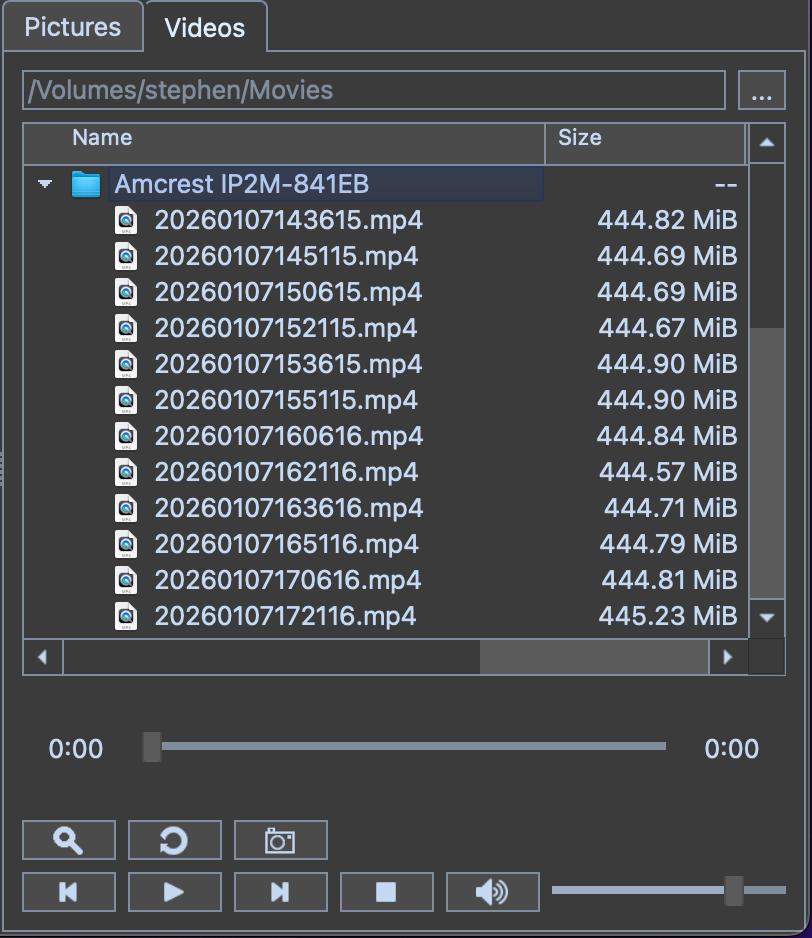
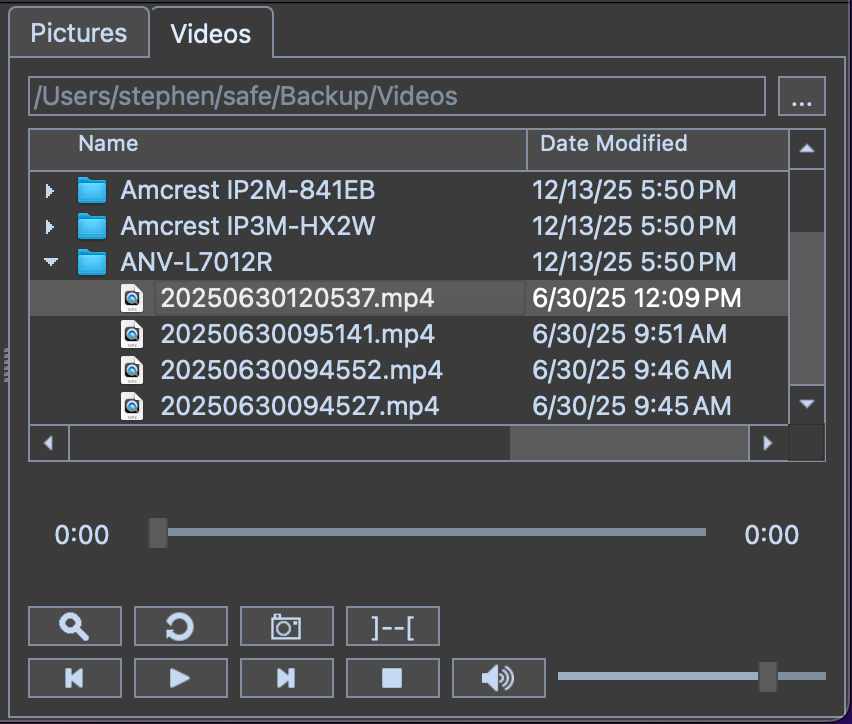
update README

Changed region(s): [[0.0, 0.0, 1.0, 1.0], [0.8621, 0.7901, 0.9544, 0.8204]]

diff --git a/README.md b/README.md
@@ -1154,7 +1154,7 @@ Opens the system web browser to this page.
 
 <h2>Keyboard Bindings</h2>
 
-Many of the above functions can be executed without using the mouse via keyboard bindings. Below is a list of the bindings
+Many of the above functions can be executed without using the mouse via keyboard bindings. Below is a list of the bindings. Note that the key bindings will work as long as the Camera Panel is the current tab panel and the main window has the focus, even if the Camera Panel was hidden using the F11 command.
 
 <b>Enter</b>
 
@@ -1196,7 +1196,13 @@ Rename the currently selected camera
 
 Remove the currently selected camera from the list. This will remove the camera from the Cached Addresses for discovery. Use broadcast discovery to re-enlist the camera.
 
+<b>Ctl+Right &nbsp; Ctl+Left &nbsp; Ctl+Up &nbsp; Ctl+Down</b>
 
+These commands will control Pan and Tilt movements for the camera if equipped.
+
+<b>Ctl+PageUp &nbsp; Ctl+PageDown</b>
+
+These commands will Zoom In and Out for the camera if equipped.
 
 ---
 &nbsp;
@@ -1421,7 +1427,7 @@ Settings pertain to preset selections or current camera position. The arrow butt
 
 The application maintains folders for the storage of camera snapshots and recordings. The folder locations by default are the OS picture and video storage locations, and can be changed using the directory setting at the top of the panel. There is a subfolder for each camera that has previously made pictures or recordings in the application. If you are using Cayenue as a client, and the server is configured to share files using Samba, you can use the server shared folder to access recordings made on the server. 
 
-Inside the camera folders are the individual picture or video files recorded by the camera. The files are named using a datetime convention which represents the time that the snapshot images was taken or the start time of the video recording. Video recordings are prepended by a time interval specified on the `Settings -> Alarm -> Pre-Alarm Buffer Size`. This insures that the moments immediately prior to the beginning of the recording are captured.
+Inside the camera folders are the individual picture or video files recorded by the camera. The files are named using a datetime convention which represents the time that the snapshot images was taken or the start time of the video recording. Video recordings are prepended by a time interval specified on the `Settings -> Alarm -> Pre-Alarm Buffer Size`. This insures that the moments immediately prior to the beginning of the recording are captured. Files within the Picture or Video directories are stored in descending chronological order so that the most recent files are shown first at the top of the directory.
 
 &nbsp;
 
@@ -1439,9 +1445,9 @@ File playback is configured such that one file is played at a time. Keyboard sho
 
 <h3>File Playback Controls For Mouse</h3>
 
-<image src="cayenue/resources/search.png"> &nbsp;&nbsp;&nbsp;&nbsp;&nbsp;&nbsp;&nbsp;&nbsp;&nbsp;&nbsp;&nbsp;&nbsp; <image src="cayenue/resources/refresh.png"> &nbsp;&nbsp;&nbsp;&nbsp;&nbsp;&nbsp;&nbsp;&nbsp;&nbsp;&nbsp;&nbsp;&nbsp; <image src="cayenue/resources/snapshot.png">
+<image src="cayenue/resources/search.png"> &nbsp;&nbsp;&nbsp;&nbsp;&nbsp;&nbsp;&nbsp;&nbsp;&nbsp;&nbsp;&nbsp;&nbsp; <image src="cayenue/resources/refresh.png"> &nbsp;&nbsp;&nbsp;&nbsp;&nbsp;&nbsp;&nbsp;&nbsp;&nbsp;&nbsp;&nbsp;&nbsp; <image src="cayenue/resources/snapshot.png"> &nbsp;&nbsp;&nbsp;&nbsp;&nbsp;&nbsp;&nbsp;&nbsp;&nbsp;&nbsp;&nbsp;&nbsp; <b>]--[</b>
 
-Search&nbsp;&nbsp;&nbsp;&nbsp;&nbsp;&nbsp;Refresh&nbsp;&nbsp;&nbsp;&nbsp;&nbsp;&nbsp;Snapshot
+Search&nbsp;&nbsp;&nbsp;&nbsp;&nbsp;&nbsp;Refresh&nbsp;&nbsp;&nbsp;&nbsp;&nbsp;&nbsp;Snapshot&nbsp;&nbsp;&nbsp;&nbsp;&nbsp;&nbsp;File Break
 
 <image src="cayenue/resources/play.png"> &nbsp;&nbsp;&nbsp;&nbsp;&nbsp;&nbsp;&nbsp;&nbsp; <image src="cayenue/resources/pause.png"> &nbsp;&nbsp;&nbsp;&nbsp;&nbsp;&nbsp;&nbsp;&nbsp; <image src="cayenue/resources/stop.png"> &nbsp;&nbsp;&nbsp;&nbsp;&nbsp;&nbsp;&nbsp;&nbsp; <image src="cayenue/resources/previous.png"> &nbsp;&nbsp;&nbsp;&nbsp;&nbsp;&nbsp;&nbsp;&nbsp; <image src="cayenue/resources/next.png"> &nbsp;&nbsp;&nbsp;&nbsp;&nbsp;&nbsp;&nbsp; <image src="cayenue/resources/audio.png">
 
@@ -1492,6 +1498,10 @@ Keyboard shortcuts are available when the file list of either the Picture Panel 
 * <h3>Down Arrow</h3>
 
   The Down Arrow will move to the next file without stopping the current file. Use the Enter key to start playing the newly highlighted file.
+
+### ]--[ &nbsp;&nbsp;  File Break
+
+When a video file is open and still receiving data from a camera, attempting to view the contents of the file will cause an error message. Clicking the File Break button will close the currently selected file and open a new file to continue receiving data from the camera. The newly opened file will save a number of seconds of video prior to the break so that there is some overlap between the two files and no data is lost. This functionality allows immediate playback for the most recent video files.
 
 ### Progress / Seek Indicator
 
